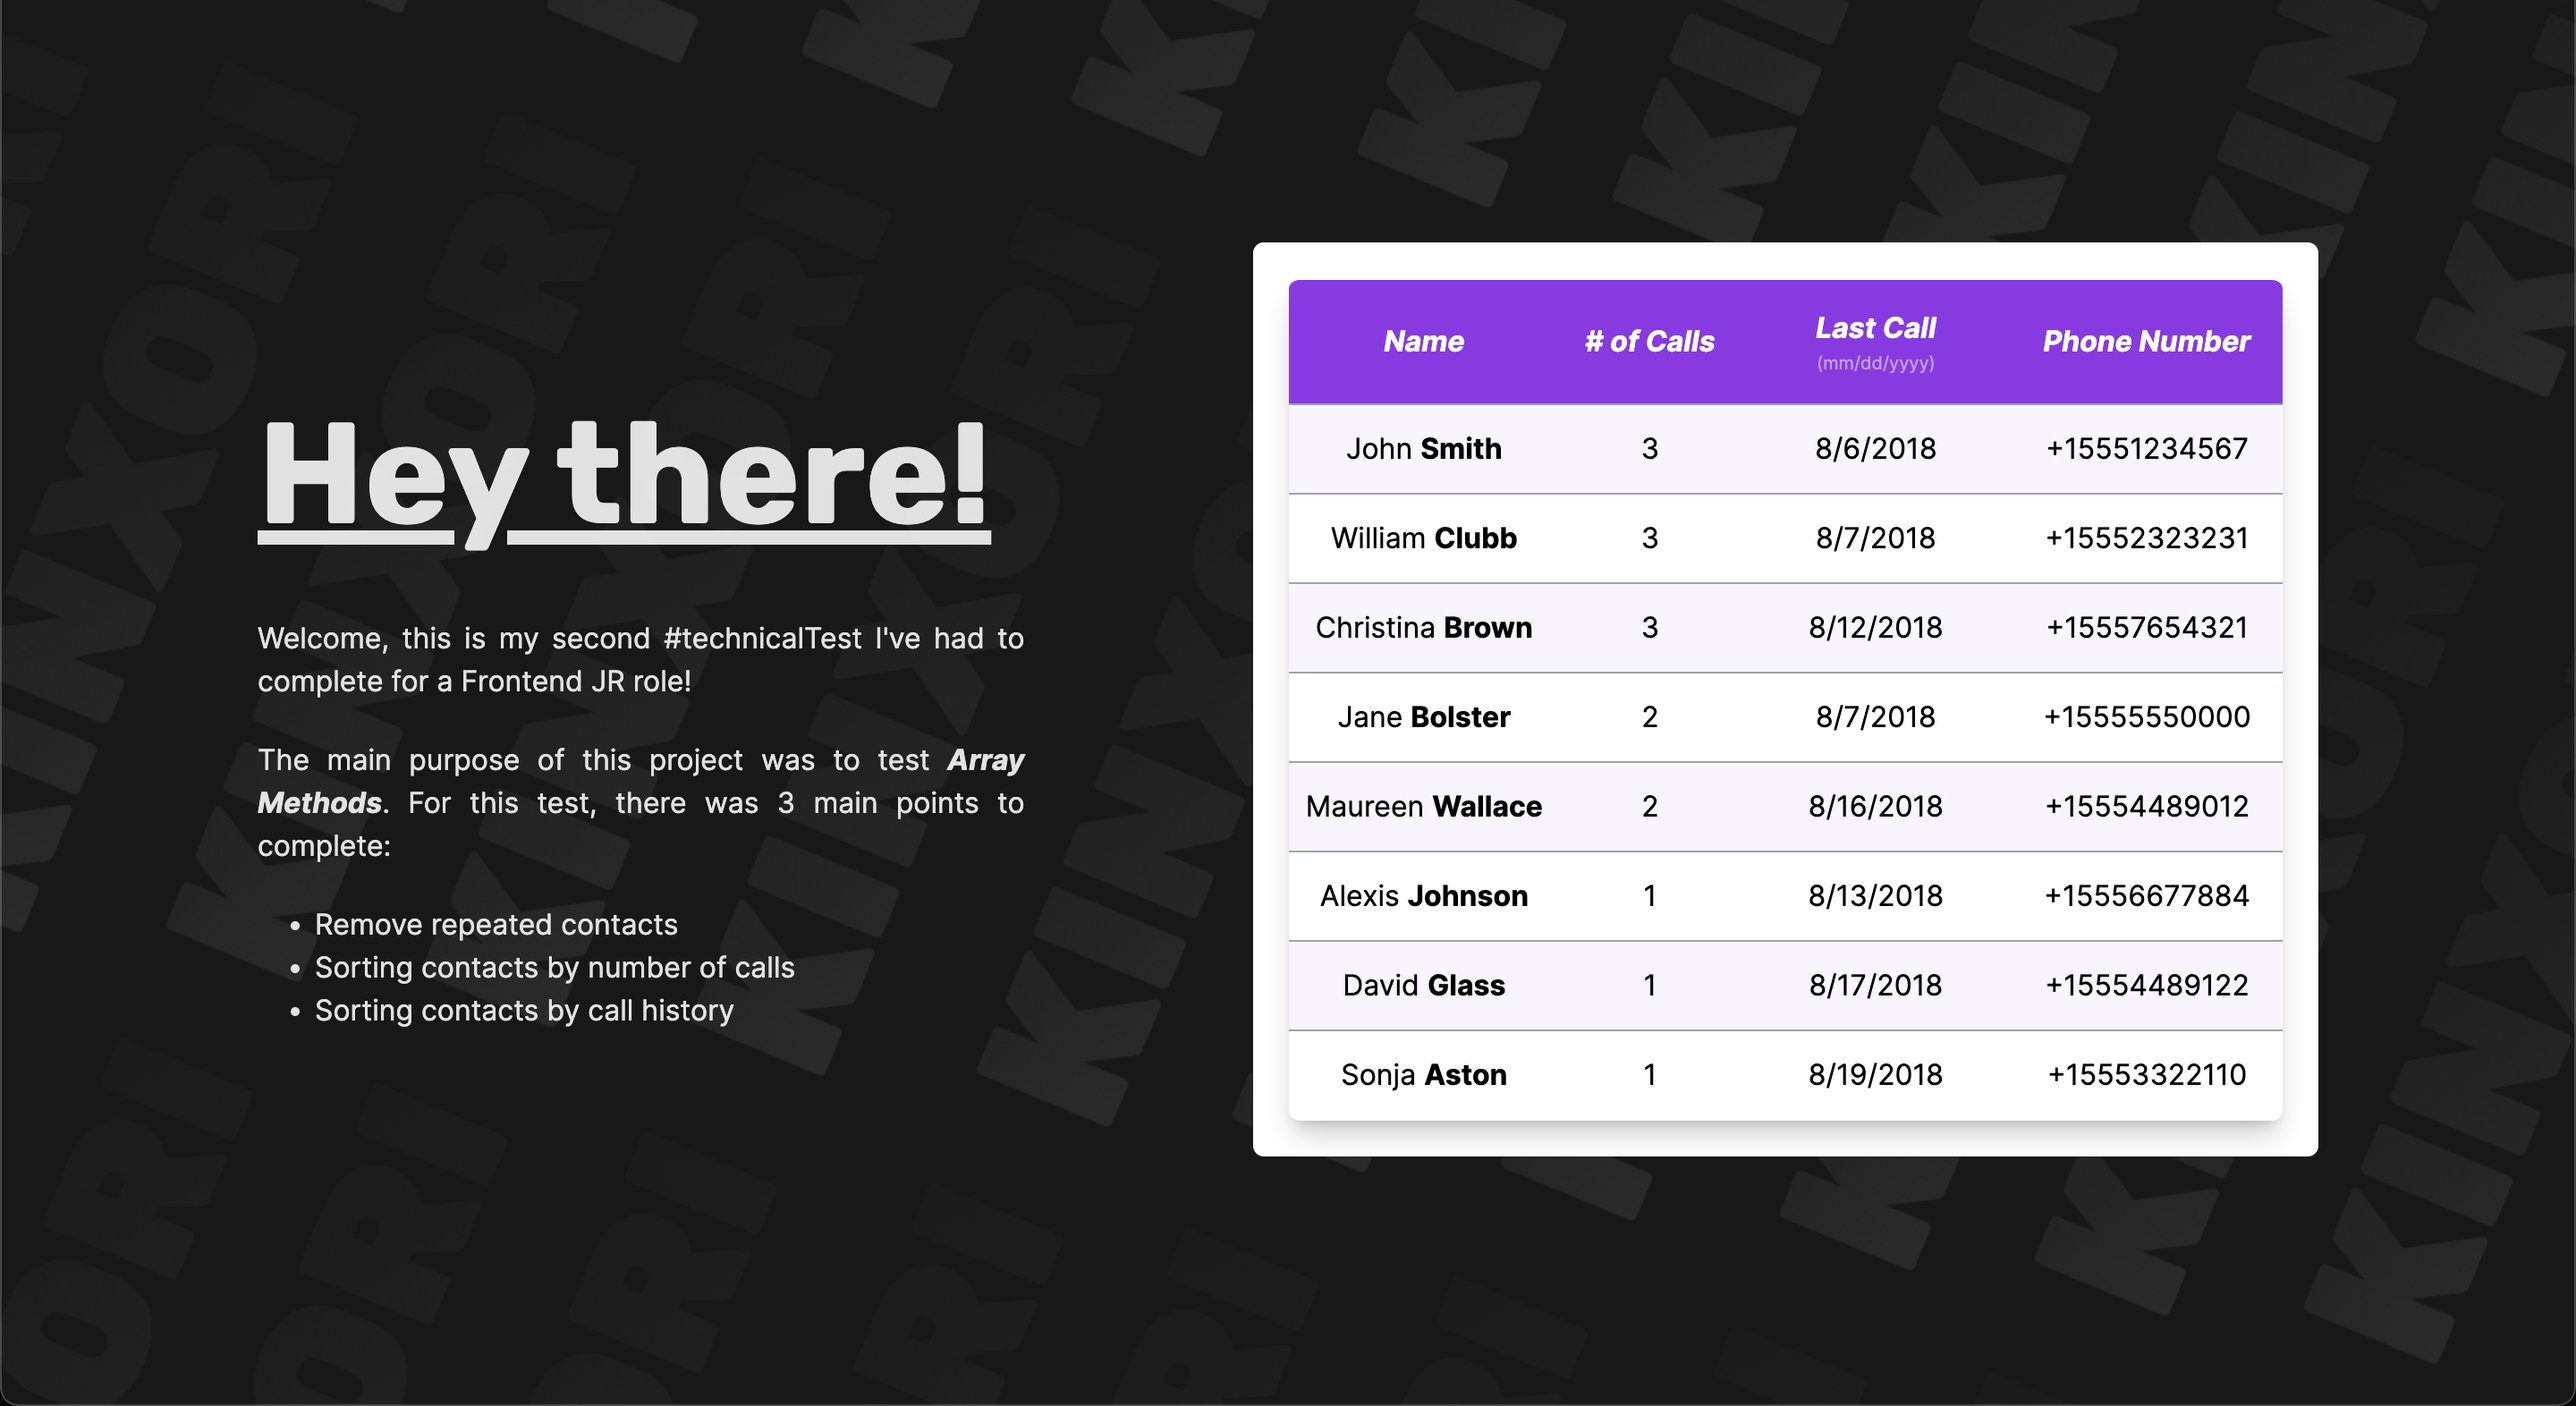
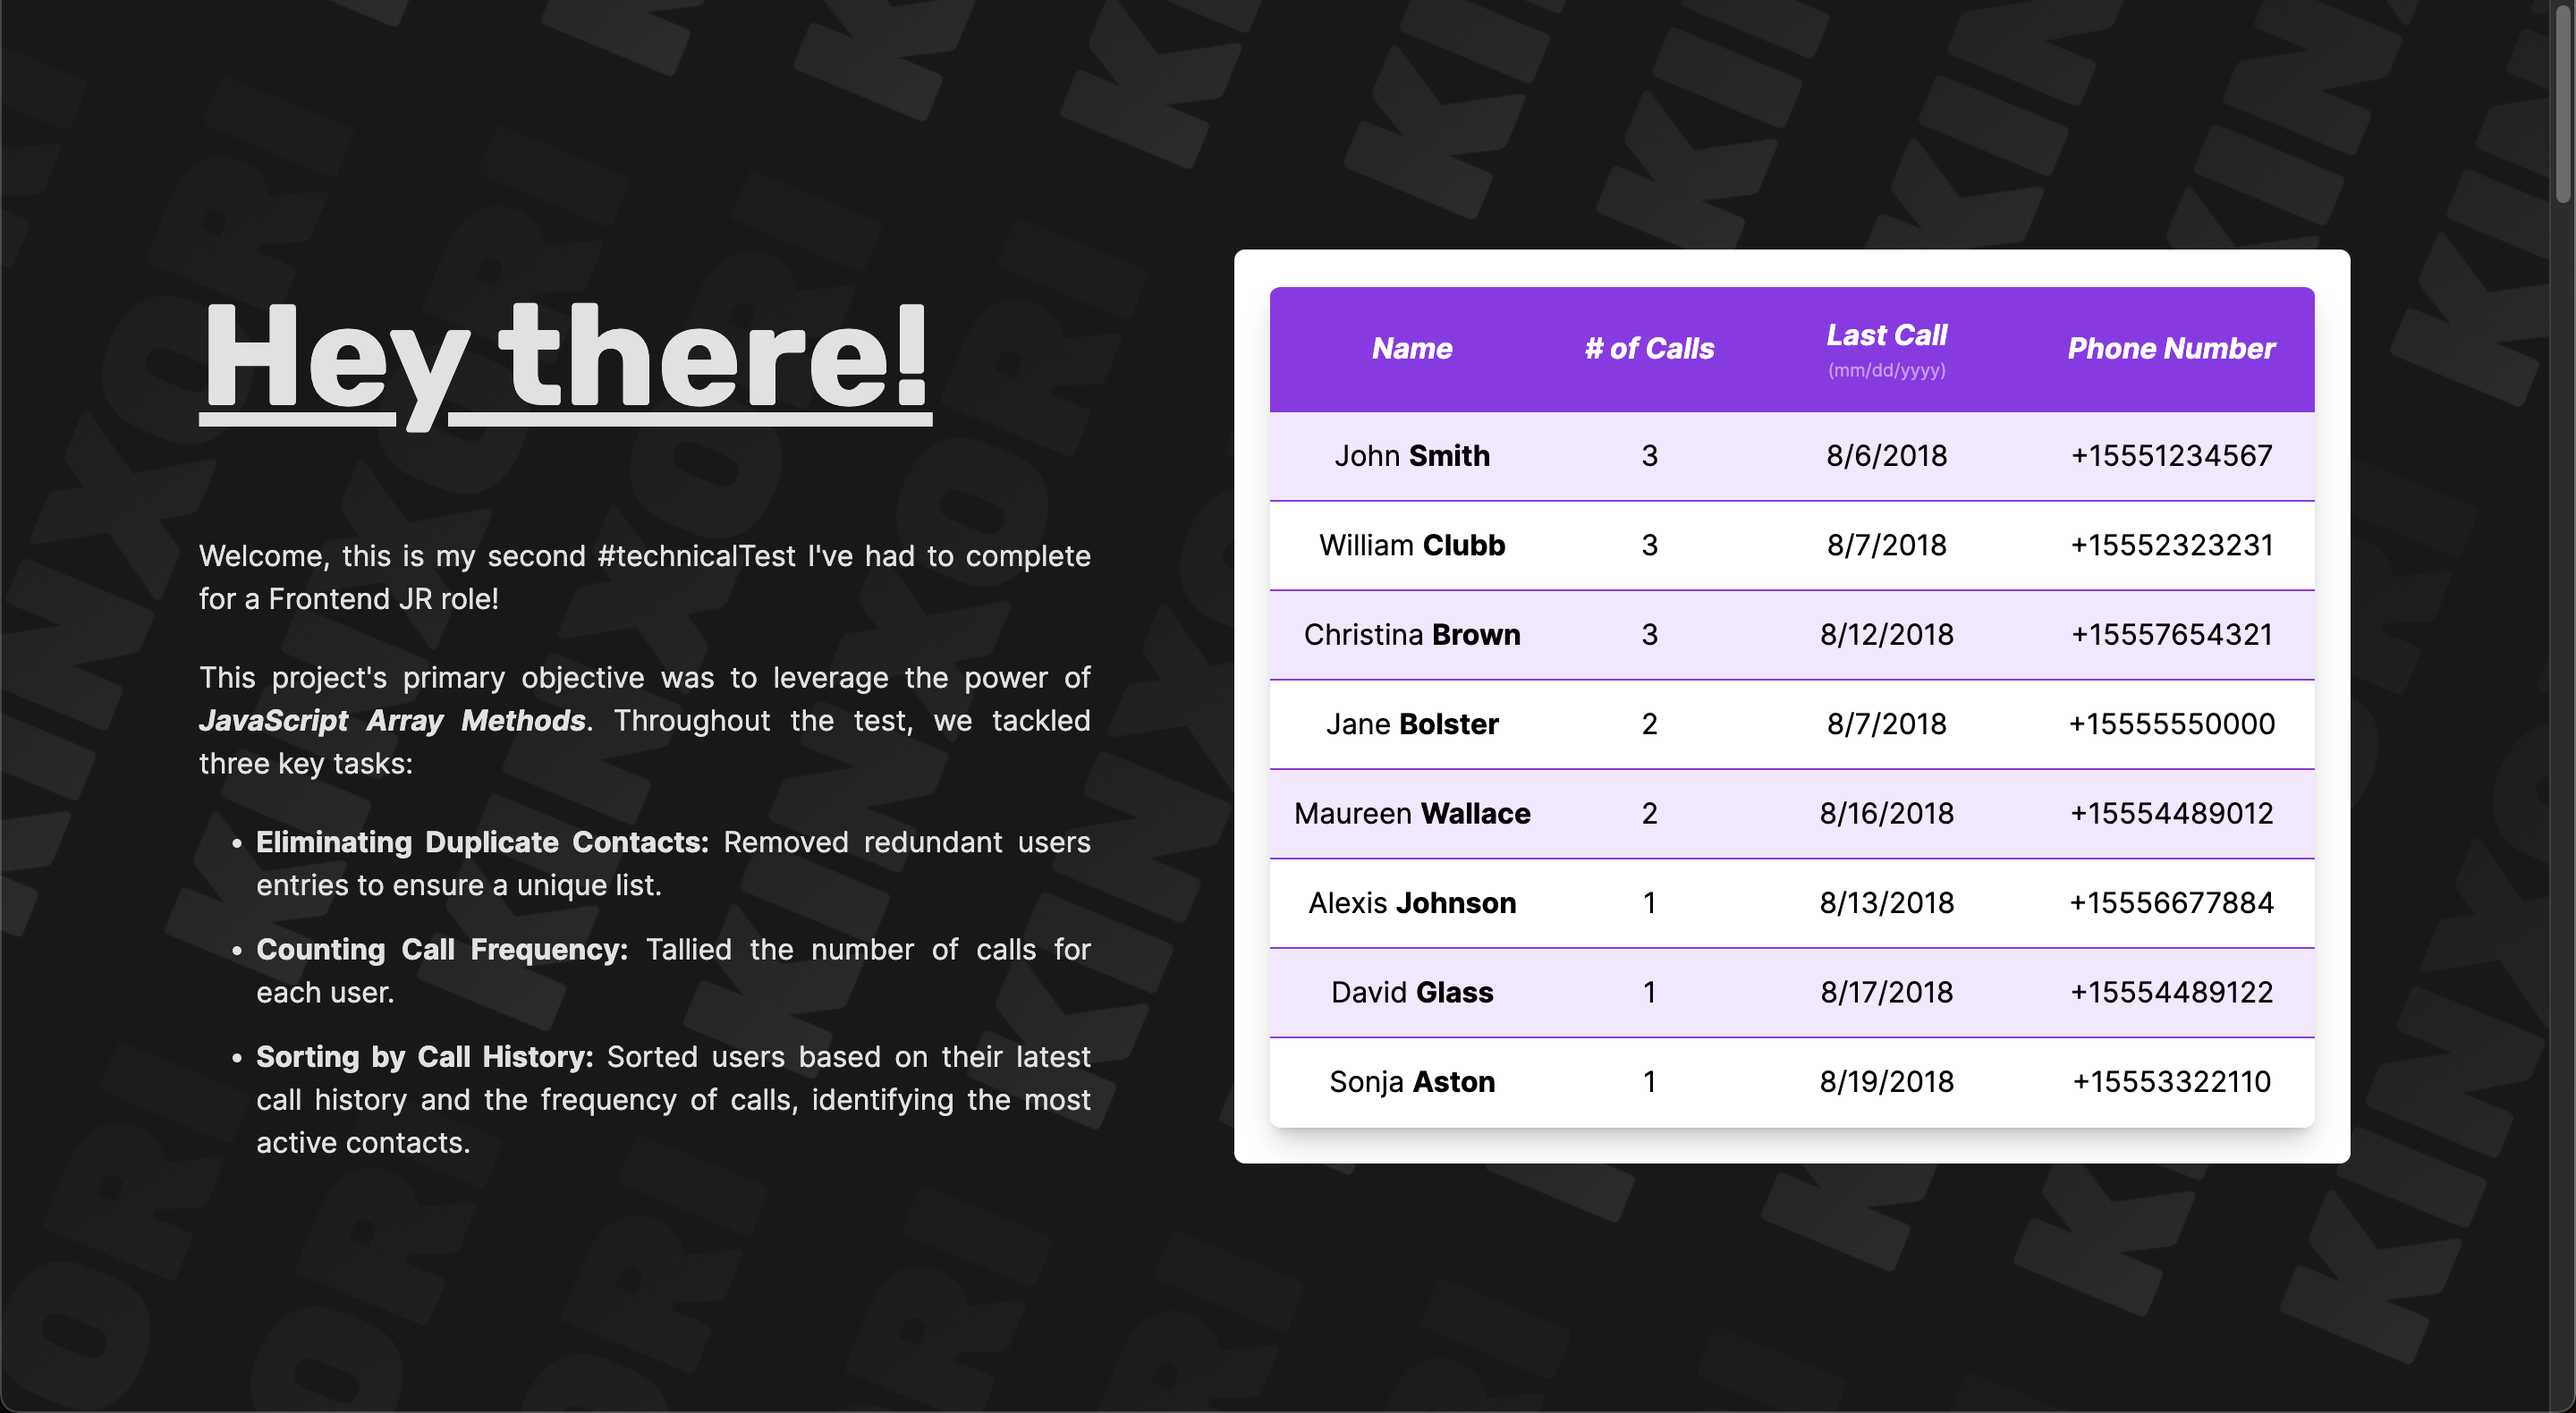
adding page description to <user filter project route>

diff --git a/app/routes/user-filter-project.tsx b/app/routes/user-filter-project.tsx
@@ -33,21 +33,22 @@ export default function UserFilter() {
           <img className="rounded-[10px]" src={userFilterAsset} />
           <div className="flex flex-col">
             <p className="text-justify">
-              Discover the very essence that fuels its existence, delve into its unique features,
-              and immerse yourself in the intricacies of this remarkable project. From concept to
-              creation, join me as I unveil the story behind El Diablito 13 and its creative allure.
+              Explore the breakdown of my second technical test for a job, where I created this
+              project focusing on optimizing data, tracking call counts, and sorting contacts.
+              Discover the practical application of frontend skills and gain insights into
+              communication patterns."
             </p>
             <div className="mt-5 ml-auto flex gap-2">
               <AnchorButton
                 variant="secButton"
-                href="https://github.com/kinxori/technical-test-1"
+                href="https://github.com/kinxori/technical-test-2"
                 target="_blank"
               >
                 Github Repo
               </AnchorButton>
               <AnchorButton
                 variant="mainButton"
-                href="https://kinxori.github.io/technical-test-1/ "
+                href="https://kinxori.github.io/technical-test-2/ "
                 target="_blank"
               >
                 Live Page
@@ -207,7 +208,8 @@ export const meta: V2_MetaFunction = () => {
     { title: "User Filter - Project" },
     {
       name: "description",
-      content: "Generic - FIX 👺",
+      content:
+        "Explore the breakdown of my second technical test for a job, where I created this project focusing on optimizing data, tracking call counts, and sorting contacts. Discover the practical application of frontend skills and gain insights into communication patterns.",
     },
     {
       name: "keywords",
@@ -220,7 +222,8 @@ export const meta: V2_MetaFunction = () => {
     },
     {
       property: "og:description",
-      content: "Generic - FIX 👺",
+      content:
+        "Explore the breakdown of my second technical test for a job, where I created this project focusing on optimizing data, tracking call counts, and sorting contacts. Discover the practical application of frontend skills and gain insights into communication patterns.",
     },
     {
       property: "og:image",
@@ -252,7 +255,8 @@ export const meta: V2_MetaFunction = () => {
     },
     {
       name: "twitter:description",
-      content: "Generic - FIX 👺",
+      content:
+        "Explore the breakdown of my second technical test for a job, where I created this project focusing on optimizing data, tracking call counts, and sorting contacts. Discover the practical application of frontend skills and gain insights into communication patterns.",
     },
     {
       name: "twitter:image",
